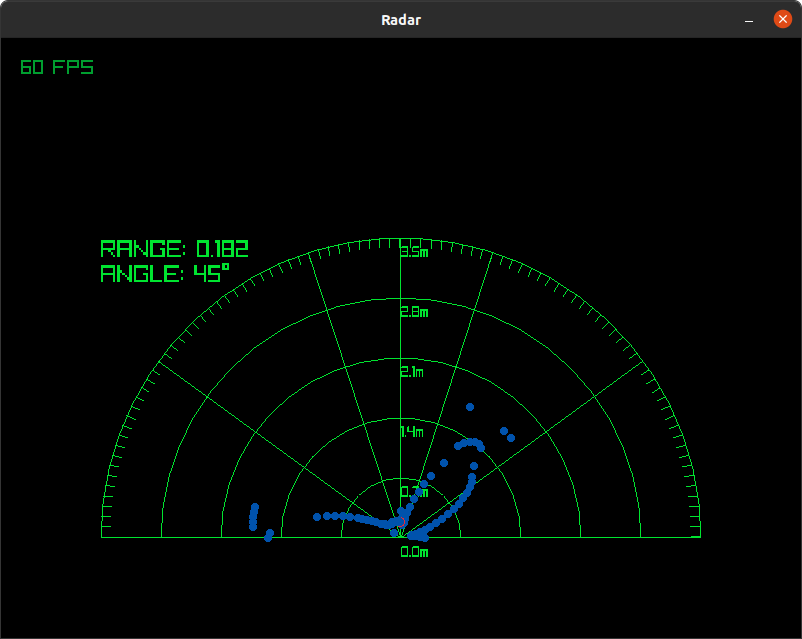
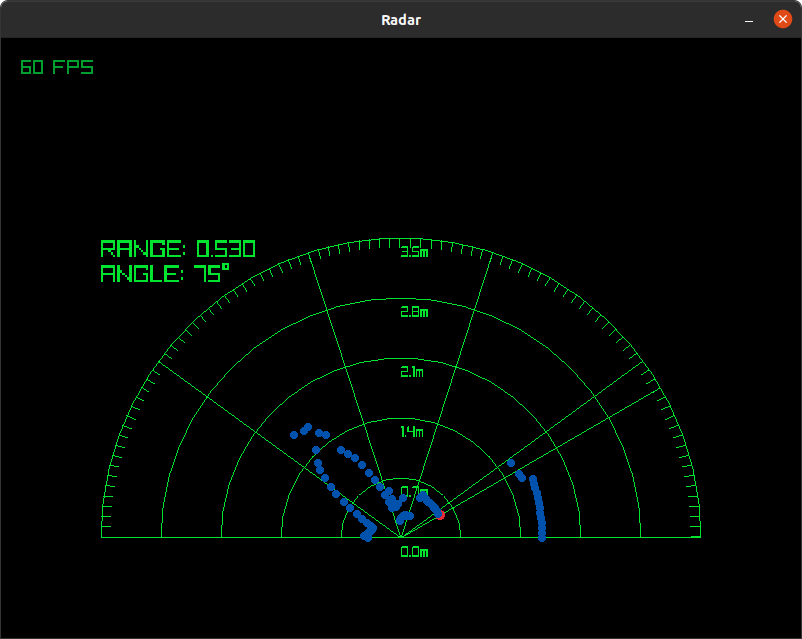
Red dot priority

diff --git a/GUI/Radar.c b/GUI/Radar.c
@@ -74,8 +74,8 @@ void Draw_radar(int pos, double *dis)
     Draw_radar_BG(pos, dis, midW, midH, BG_size_ratio, BG_layer, BG_size, BG_density_layer);
 
     for (int i = 0; i < 91; i++) {
-	if (i == pos) DrawCircle(midW + BG_size*(dis[pos]/MAX_RANGE)*(cosf((double)pos/90.f*M_PI)), midH + BG_size*(dis[pos]/MAX_RANGE)*(-sinf((double)pos/90.f*M_PI))+200, 5, RED);
-	else DrawCircle(midW + BG_size*(dis[i]/MAX_RANGE)*(cosf((double)i/90.f*M_PI)), midH + BG_size*(dis[i]/MAX_RANGE)*(-sinf((double)i/90.f*M_PI))+200, 4, DARKBLUE);
+	if (i != pos) DrawCircle(midW + BG_size*(dis[i]/MAX_RANGE)*(cosf((double)i/90.f*M_PI)), midH + BG_size*(dis[i]/MAX_RANGE)*(-sinf((double)i/90.f*M_PI))+200, 4, DARKBLUE);
+	else DrawCircle(midW + BG_size*(dis[pos]/MAX_RANGE)*(cosf((double)pos/90.f*M_PI)), midH + BG_size*(dis[pos]/MAX_RANGE)*(-sinf((double)pos/90.f*M_PI))+200, 5, RED);
     }
     
     DrawFPS(20, 20);
